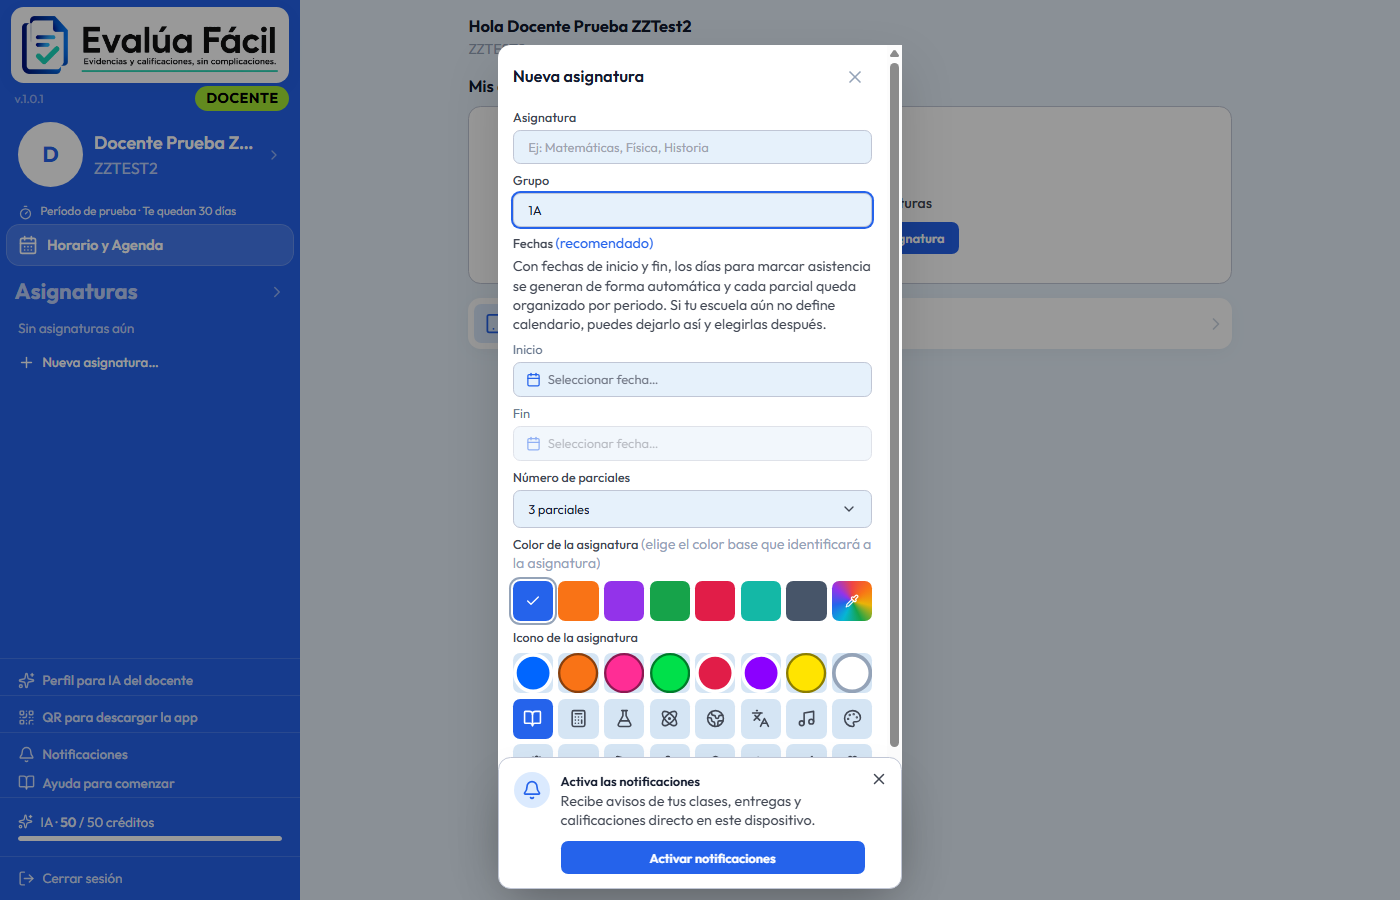
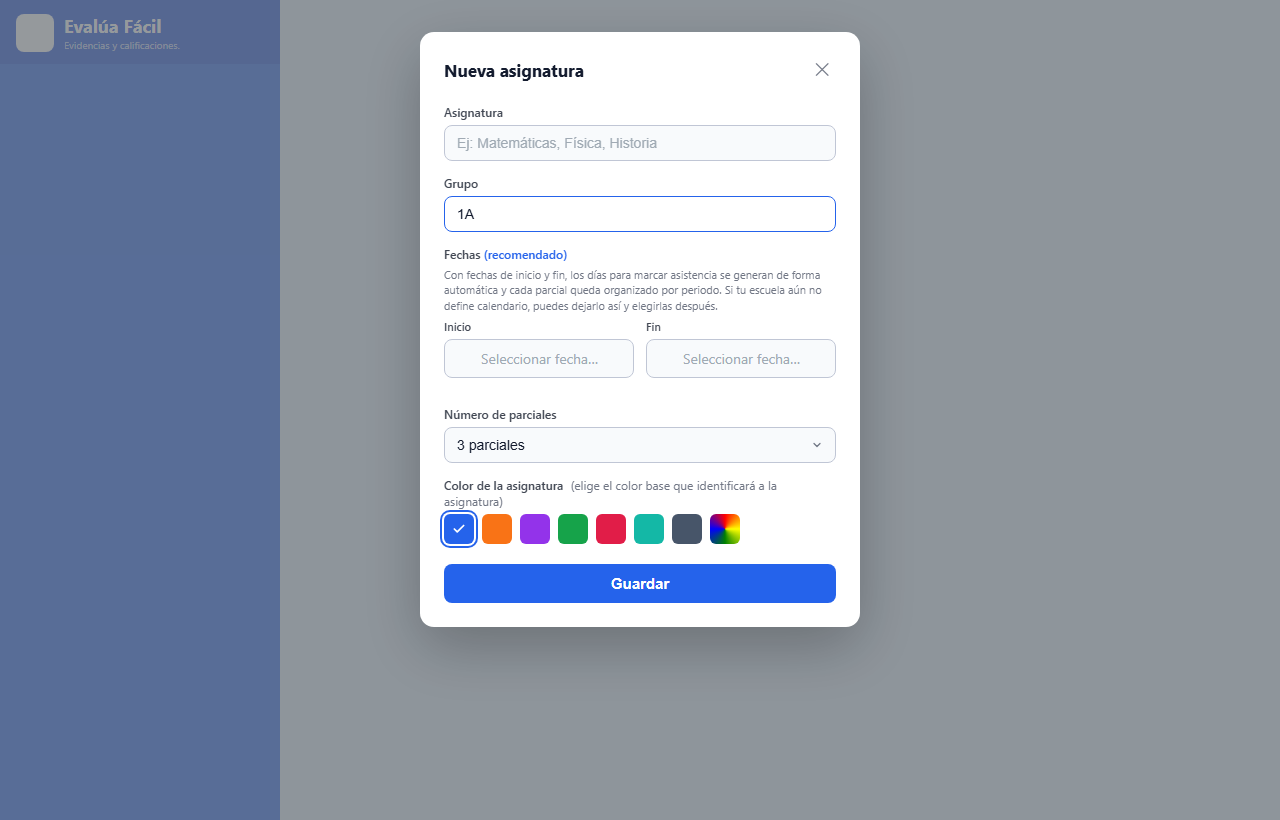
feat(ayuda): integrar capturas reales en los Primeros pasos
- Recapturadas 4 imágenes limpias (sin banners, sin datos reales):
  01-dashboard, 02-modal-asignatura, 03-tab-estudiantes,
  07-asistencia-movil (datos ficticios, viewport móvil)
- Las 4 ya existentes se conservan sin cambios:
  04-modal-agregar-estudiante, acceso-codigo, 05-tipo-actividad,
  06-tipo-archivo-imagenes
- Eliminadas referencias a imágenes de baja prioridad (04b y 05b)
  del JSX; los archivos físicos permanecen intactos

diff --git a/src/pages/teacher/AyudaPage.jsx b/src/pages/teacher/AyudaPage.jsx
@@ -50,7 +50,6 @@ const GUIDES = [
       },
       {
         text: 'Si es todo un grupo a la vez, usa "Plantilla Excel": descarga la plantilla, llénala con un alumno por fila y súbela. La plataforma genera los códigos de acceso de todos de golpe.',
-        image: '/ayuda-comenzar/04b-plantilla-excel-ui.png',
       },
     ],
     transfer: 'Lo que le pertenece a una asignatura (estudiantes, actividades, asistencias) se administra en su propia pestaña.',
@@ -81,7 +80,6 @@ const GUIDES = [
     steps: [
       {
         text: 'Dentro de la asignatura, en la pestaña "Actividades", toca "Nueva actividad".',
-        image: '/ayuda-comenzar/05b-boton-nueva-actividad.png',
       },
       {
         text: 'Elige el tipo "Entregable" y ponle nombre, por ejemplo "Fotos del cuaderno — tema 1".',
